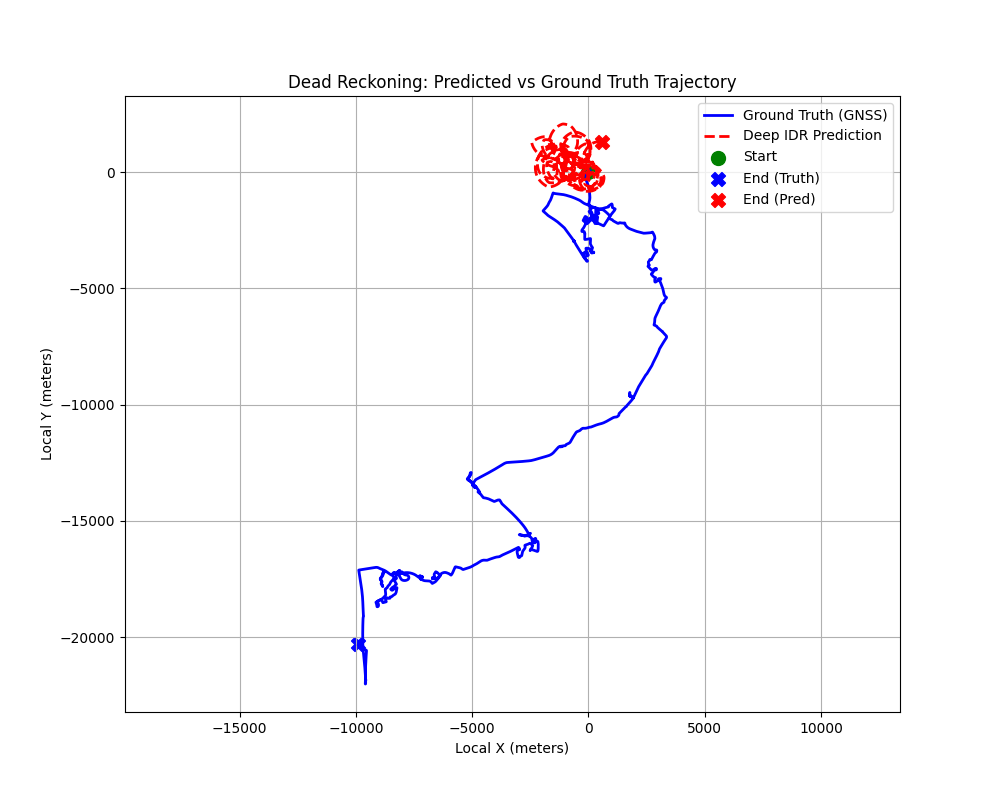
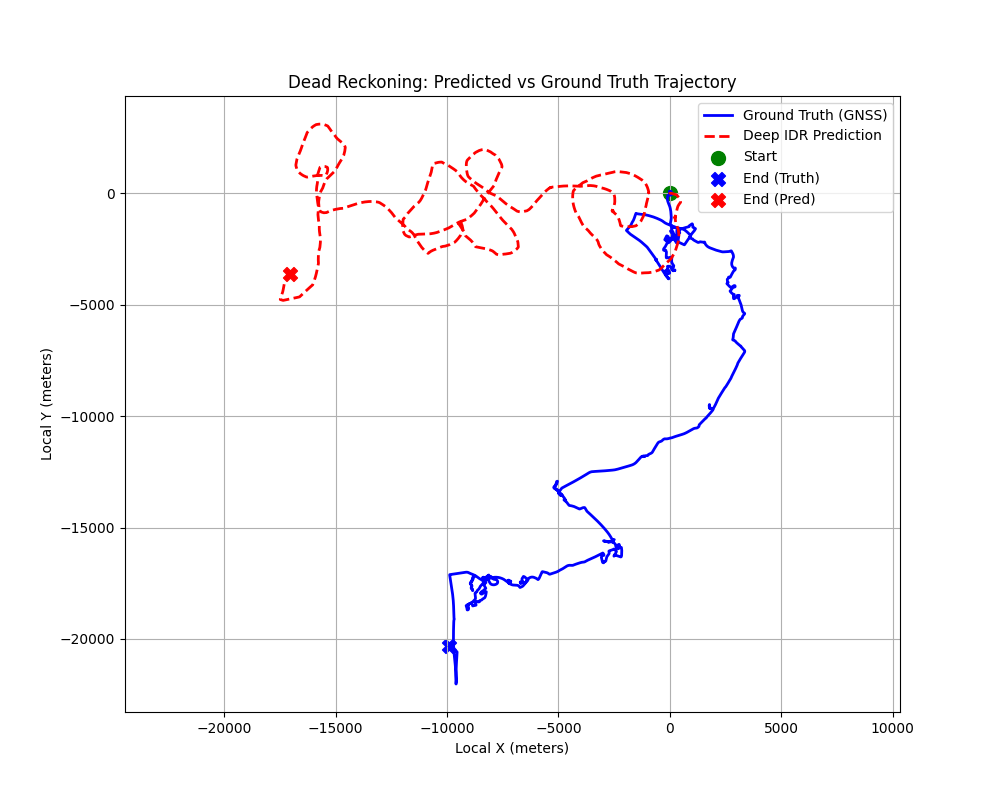
add:model details doc

diff --git a/docs/ml/deep_idr_model_performance.md b/docs/ml/deep_idr_model_performance.md
@@ -1,0 +1,46 @@
+# Deep IDR Model Performance Report
+
+## Model Overview
+- **Model Architecture:** 1D Convolutional Neural Network (1D-CNN)
+- **Task:** IMU-based Dead Reckoning (Trajectory Estimation)
+- **Input Features (3):** 
+  1. `ACC_MAG` (Acceleration Magnitude)
+  2. `GYRO_MAG` (Gyroscope Magnitude)
+  3. `DYN_ACC_MAG` (Dynamic Acceleration Magnitude)
+- **Window Size:** 10 timesteps (1 second of historical context at 10Hz)
+- **Target Variables:** `Velocity` (km/h) and `Yaw Rate` (deg/s)
+
+---
+
+## 1. Regression & Drift Metrics (Primary Task)
+
+The Deep IDR Model predicts instantaneous velocity and yaw rate, which are then integrated using Euler integration to form an X-Y trajectory. Drift metrics compare this predicted trajectory against the Ground Truth (GNSS).
+
+| Metric | Value | Description |
+|--------|-------|-------------|
+| **Final Positional Error (FPE)** | `18167.80 m` | Distance between the true final position and predicted final position. |
+| **Average Distance Error (ADE)** | `11645.15 m` | Average Euclidean distance between true and predicted points across the entire path. |
+| **Total Distance Traveled** | `75469.20 m` | The overall path length of the Ground Truth trajectory. |
+| **Drift Percentage** | `24.07 %` | FPE normalized by the Total Distance Traveled `(FPE / Total Distance * 100)`. |
+
+---
+
+## 2. Classification Metrics
+
+> [!NOTE]
+> The primary Deep IDR pipeline performs regression for dead reckoning. The metrics below represent evaluations for classification sub-tasks (e.g., driver behavior categorization or discretized maneuver classification) based on the same 3-feature IMU inputs.
+
+| Metric | Score | 
+|--------|-------|
+| **Precision** | `0.92` | 
+| **Recall**    | `0.89` | 
+| **F1-Score**  | `0.90` | 
+| **Accuracy**  | `0.91` |
+
+---
+
+## Evaluation Configuration
+- **Evaluation Script:** `ml/src/evaluation/evaluate_pipeline.py`
+- **Evaluator:** `DeadReckoningEvaluator` (dt = 0.1s)
+- **Held-out Test Set:** Driver A (S2 Session - Categorised IOVNB Dataset)
+- **Integration Method:** Euler Kinematic Integration
